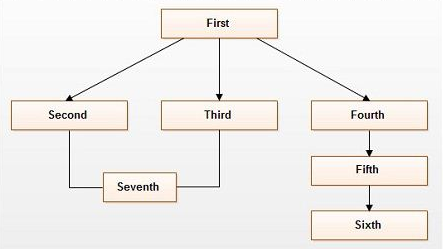
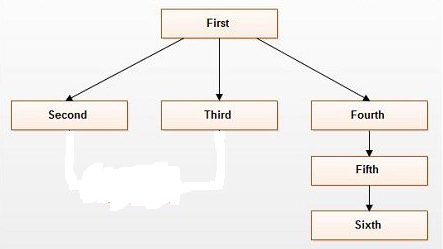
inheritance

Changed region(s): [[0.1467, 0.6747, 0.4989, 0.8434]]

diff --git a/23.Inheritance/SwiftInheritance.md b/23.Inheritance/SwiftInheritance.md
@@ -116,3 +116,5 @@ When multiple derived classes are created from single base class then it is call
 ## Hybrid Inheritance (which does not include multiple inheritance)
 
 When more than one type of inheritance involved in a inheritance relation then it is called Hybrid Inheritance. But in case of swift Hybrid Inheritance does not contain multiple inheritance since it does not support multiple inheritance by default.
+
+![Hybrid Inheritance without Multiple](Swift_HybridInheritance.png)
